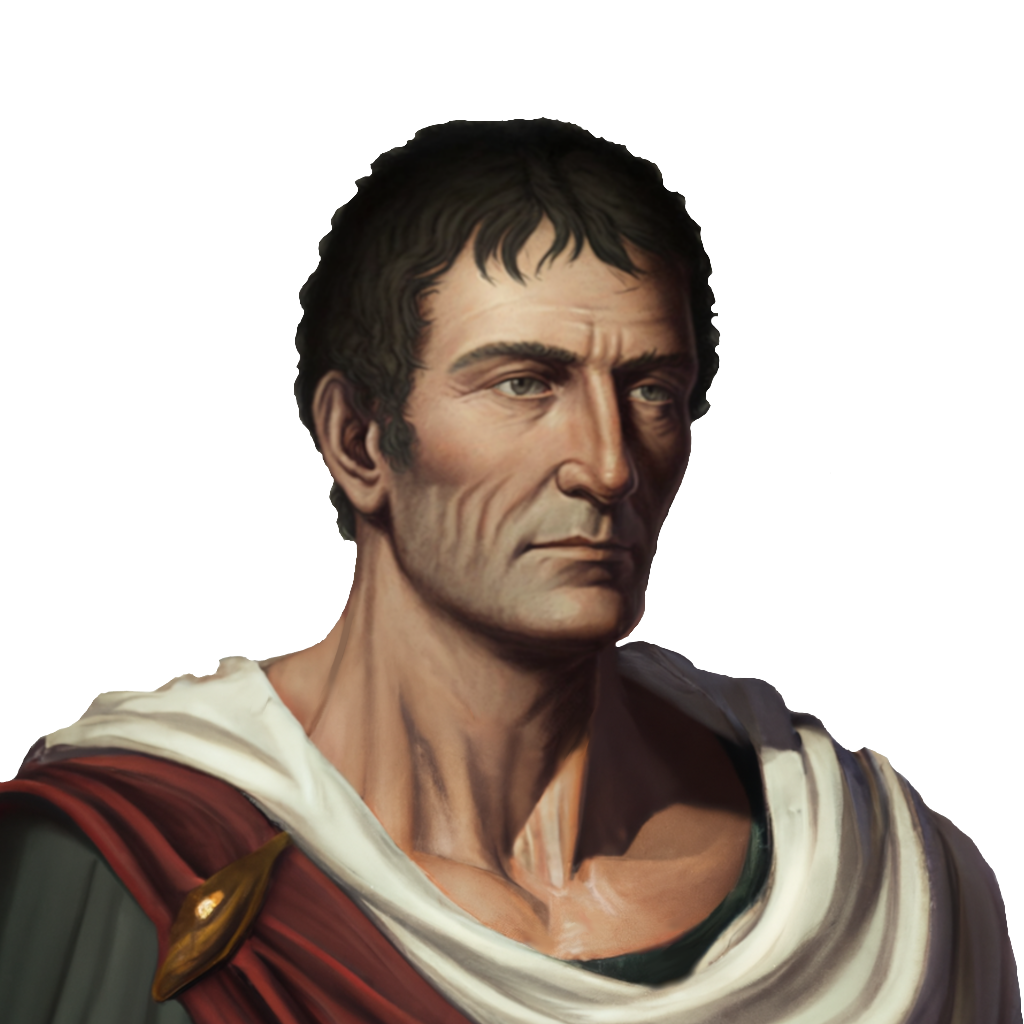
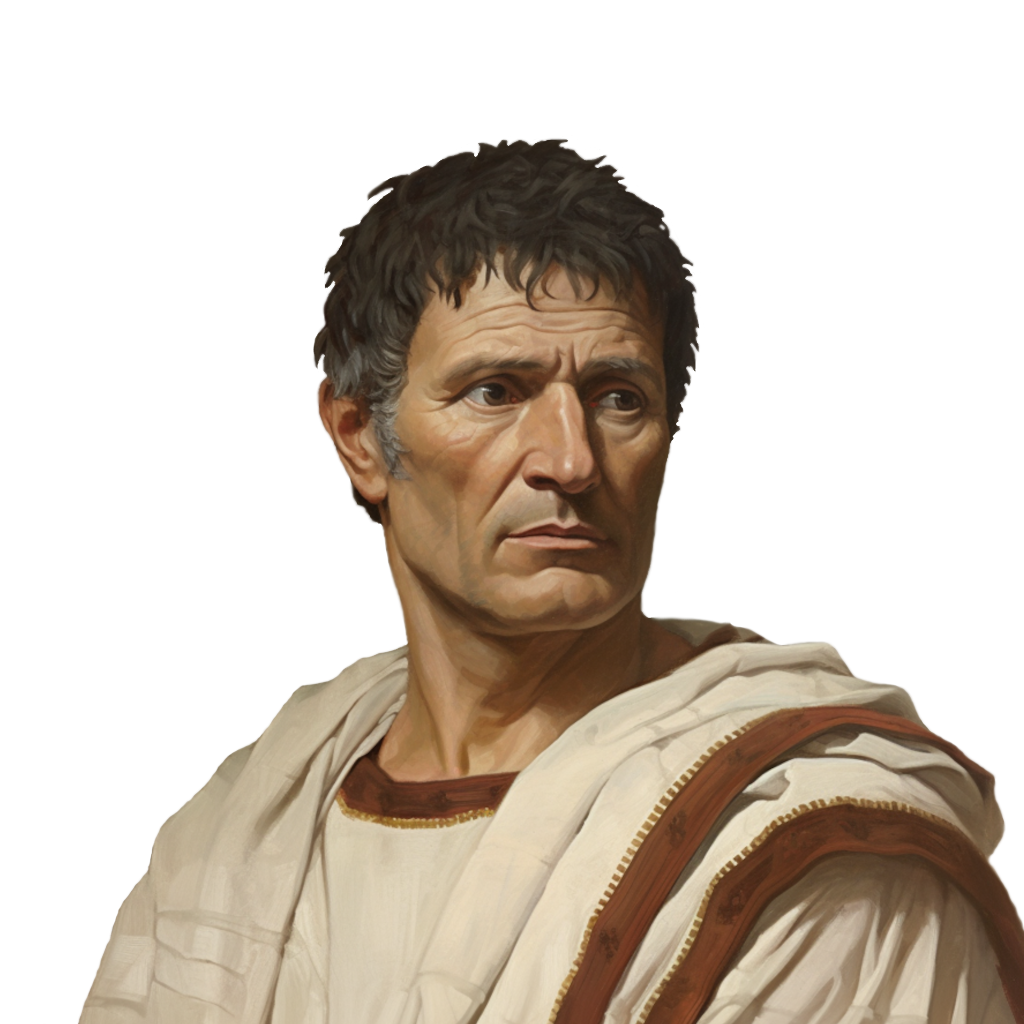
Add senator portraits to game play page
Add 20 new senator portrait images, and use them in the game play page. The portrait components are a simplified version of the portrait components used in the demo page.

diff --git a/frontend/components/senators/SenatorPortrait2.tsx b/frontend/components/senators/SenatorPortrait2.tsx
@@ -1,0 +1,105 @@
+import Image, { StaticImageData }  from 'next/image'
+import chroma from "chroma-js";
+import FamilySenator from '@/classes/FamilySenator'
+import Faction from '@/classes/Faction'
+import styles from "./SenatorPortrait2.module.css"
+
+import Cornelius from "@/images/portraits/cornelius.png"
+import Fabius from "@/images/portraits/fabius.png"
+import Valerius from "@/images/portraits/valerius.png"
+import Julius from "@/images/portraits/julius.png"
+import Claudius from "@/images/portraits/claudius.png"
+import Manlius from "@/images/portraits/manlius.png"
+import Fulvius from "@/images/portraits/fulvius.png"
+import Furius from "@/images/portraits/furius.png"
+import Aurelius from "@/images/portraits/aurelius.png"
+import Junius from "@/images/portraits/junius.png"
+import Papirius from "@/images/portraits/papirius.png"
+import Acilius from "@/images/portraits/acilius.png"
+import Flaminius from "@/images/portraits/flaminius.png"
+import Aelius from "@/images/portraits/aelius.png"
+import Sulpicius from "@/images/portraits/sulpicius.png"
+import Calpurnius from "@/images/portraits/calpurnius.png"
+import Plautius from "@/images/portraits/plautius.png"
+import Quinctius from "@/images/portraits/quinctius.png"
+import Aemilius from "@/images/portraits/aemilius.png"
+import Terentius from "@/images/portraits/terentius.png"
+
+const senatorImages: { [key: string]: StaticImageData } = {
+  Cornelius: Cornelius,
+  Fabius: Fabius,
+  Valerius: Valerius,
+  Julius: Julius,
+  Claudius: Claudius,
+  Manlius: Manlius,
+  Fulvius: Fulvius,
+  Furius: Furius,
+  Aurelius: Aurelius,
+  Junius: Junius,
+  Papirius: Papirius,
+  Acilius: Acilius,
+  Flaminius: Flaminius,
+  Aelius: Aelius,
+  Sulpicius: Sulpicius,
+  Calpurnius: Calpurnius,
+  Plautius: Plautius,
+  Quinctius: Quinctius,
+  Aemilius: Aemilius,
+  Terentius: Terentius,
+};
+
+interface SenatorPortraitProps {
+  senator: FamilySenator
+  faction: Faction
+}
+
+const SenatorPortrait2 = (props: SenatorPortraitProps) => {
+
+  const getImageContainerStyle = () => {
+    return {
+      border: '2px solid' + props.senator.getColor("primary", props.faction.position),
+      height: 72, width: 72
+    }
+  }
+
+  // Use the name to get the correct image
+  const getPicture = (): StaticImageData | string => {
+    const senatorName = props.senator.name
+    if (senatorImages.hasOwnProperty(senatorName)) {
+      return senatorImages[senatorName]
+    } else {
+      return ""
+    }
+  }
+
+  const getBgStyle = () => {
+    // Get size
+    const size = 74
+
+    // Get base background color
+    let bgColor = props.senator.getColor("bg", props.faction.position)
+
+    // Manipulate color to make gradient background
+    let innerBgColor = chroma(bgColor).brighten().hex()
+    let outerBgColor = chroma(bgColor).darken().hex()
+    
+    // Return background style
+    return {
+      background: "radial-gradient(" + innerBgColor + ", " + outerBgColor + ")",
+      height: size, width: size
+    }
+  }
+
+  return (
+    <div className={styles.senatorPortrait} title={props.senator.name}>
+      <figure style={{height: 80, width: 80}}>
+        <div className={styles.imageContainer} style={getImageContainerStyle()}>
+          <Image className={styles.picture} width={106} height={106} src={getPicture()} alt={"Portrait of " + props.senator.name} />
+        </div>
+        <div className={styles.bg} style={getBgStyle()}></div>
+      </figure>
+    </div>
+  )
+}
+
+export default SenatorPortrait2;

diff --git a/frontend/pages/games/[id]/play.tsx b/frontend/pages/games/[id]/play.tsx
@@ -1,9 +1,9 @@
 import { useCallback, useEffect, useState } from 'react';
 import Head from 'next/head';
 import { GetServerSidePropsContext } from 'next';
-import useWebSocket from 'react-use-websocket';
 
 import Card from '@mui/material/Card';
+import Stack from '@mui/material/Stack';
 
 import Game from '@/classes/Game';
 import GameParticipant from '@/classes/GameParticipant';
@@ -16,6 +16,7 @@ import request from '@/functions/request';
 import { useAuthContext } from '@/contexts/AuthContext';
 import { deserializeToInstance, deserializeToInstances } from '@/functions/serialize';
 import User from '@/classes/User';
+import SenatorPortrait2 from '@/components/senators/SenatorPortrait2';
 
 const webSocketURL: string = process.env.NEXT_PUBLIC_WS_URL ?? "";
 
@@ -95,26 +96,28 @@ const PlayGamePage = (props: PlayGamePageProps) => {
           <Card>
             <Card variant='outlined' style={{margin: 0, padding: "16px"}}>
               <h3 style={{ marginTop: 0 }}>Senators</h3>
-              {factions.map((faction: Faction) => {
-                const gameParticipant = gameParticipants.find(participant => participant.id == faction.player)
-                const user = gameParticipant?.user
-                if (gameParticipant && user instanceof User) {
-                  return (
-                    <div key={faction.id}>
-                      <h4>Faction of {user?.username}</h4>
-                      <ul>
-                        {familySenators.filter((senator: FamilySenator) => {
-                          return senator.faction === faction.id
-                        }).map((senator: FamilySenator) => {
-                          return <li key={senator.id}>{senator.name}</li>
-                        })}
-                      </ul>
-                    </div>
-                  )
-                } else {
-                  return ""
-                }
-              })}
+              <Stack direction="row" spacing={2} useFlexGap flexWrap="wrap">
+                {factions.map((faction: Faction) => {
+                  const gameParticipant = gameParticipants.find(participant => participant.id == faction.player)
+                  const user = gameParticipant?.user
+                  if (gameParticipant && user instanceof User) {
+                    return (
+                      <div key={faction.id}>
+                        <h4 style={{marginTop: 5, marginBottom: 10}}>Faction of {user?.username}</h4>
+                        <Stack direction="row" spacing={1}>
+                          {familySenators.filter((senator: FamilySenator) => {
+                            return senator.faction === faction.id
+                          }).map((senator: FamilySenator) => {
+                            return <SenatorPortrait2 senator={senator} faction={faction} />
+                          })}
+                        </Stack>
+                      </div>
+                    )
+                  } else {
+                    return ""
+                  }
+                })}
+              </Stack>
             </Card>
           </Card>          
         </section>

diff --git a/frontend/components/senators/SenatorPortrait2.module.css b/frontend/components/senators/SenatorPortrait2.module.css
@@ -1,0 +1,39 @@
+.senatorPortrait figure {
+  box-sizing: border-box;
+  background-color: var(--foreground-color);
+
+  position: relative;
+  display: flex;
+  justify-content: center;
+  align-items: center;
+
+  margin-block-start: 0;
+  margin-block-end: 0;
+  margin-inline-start: 0;
+  margin-inline-end: 0;
+}
+
+.senatorPortrait>figure {
+  background-color: var(--foreground-color);
+}
+
+.senatorPortrait>figure>.bg {
+  position: absolute;
+}
+
+.imageContainer {
+  position: absolute;
+  z-index: 1;
+  overflow: hidden;
+  left: 50%;
+  top: 50%;
+  transform: translate(-50%, -50%);
+}
+
+.imageContainer img.picture {
+  position: absolute;
+  z-index: 1;
+  left: 50%;
+  top: 50%;
+  transform: translate(-50%, -41%);
+}

diff --git a/frontend/classes/Faction.ts b/frontend/classes/Faction.ts
@@ -1,21 +1,23 @@
+export type FactionPosition = "0" | "1" | "2" | "3" | "4" | "5" | "6"
+
 interface FactionData {
   id: string,
   game: string,
-  position: string,
+  position: FactionPosition,
   player: string
 }
 
 class Faction {
-  id: string;
-  game: string;
-  position: string;
-  player: string;
+  id: string
+  game: string
+  position: FactionPosition
+  player: string
 
   constructor(data: FactionData) {
-    this.id = data.id;
-    this.game = data.game;
-    this.position = data.position;
-    this.player = data.player;
+    this.id = data.id
+    this.game = data.game
+    this.position = data.position
+    this.player = data.player
   }
 }
 

diff --git a/frontend/classes/FamilySenator.ts b/frontend/classes/FamilySenator.ts
@@ -1,3 +1,6 @@
+import Colors from "@/data/colors.json"
+import { FactionPosition } from "@/classes/Faction"
+
 interface FamilySenatorData {
   id: string,
   name: string,
@@ -16,6 +19,10 @@ class FamilySenator {
     this.name = data.name;
     this.game = data.game;
     this.faction = data.faction;
+  }
+
+  getColor = (type: "primary" | "bg", factionPosition: FactionPosition) => {
+    return Colors.aligned[type][factionPosition];
   }
 }
 
